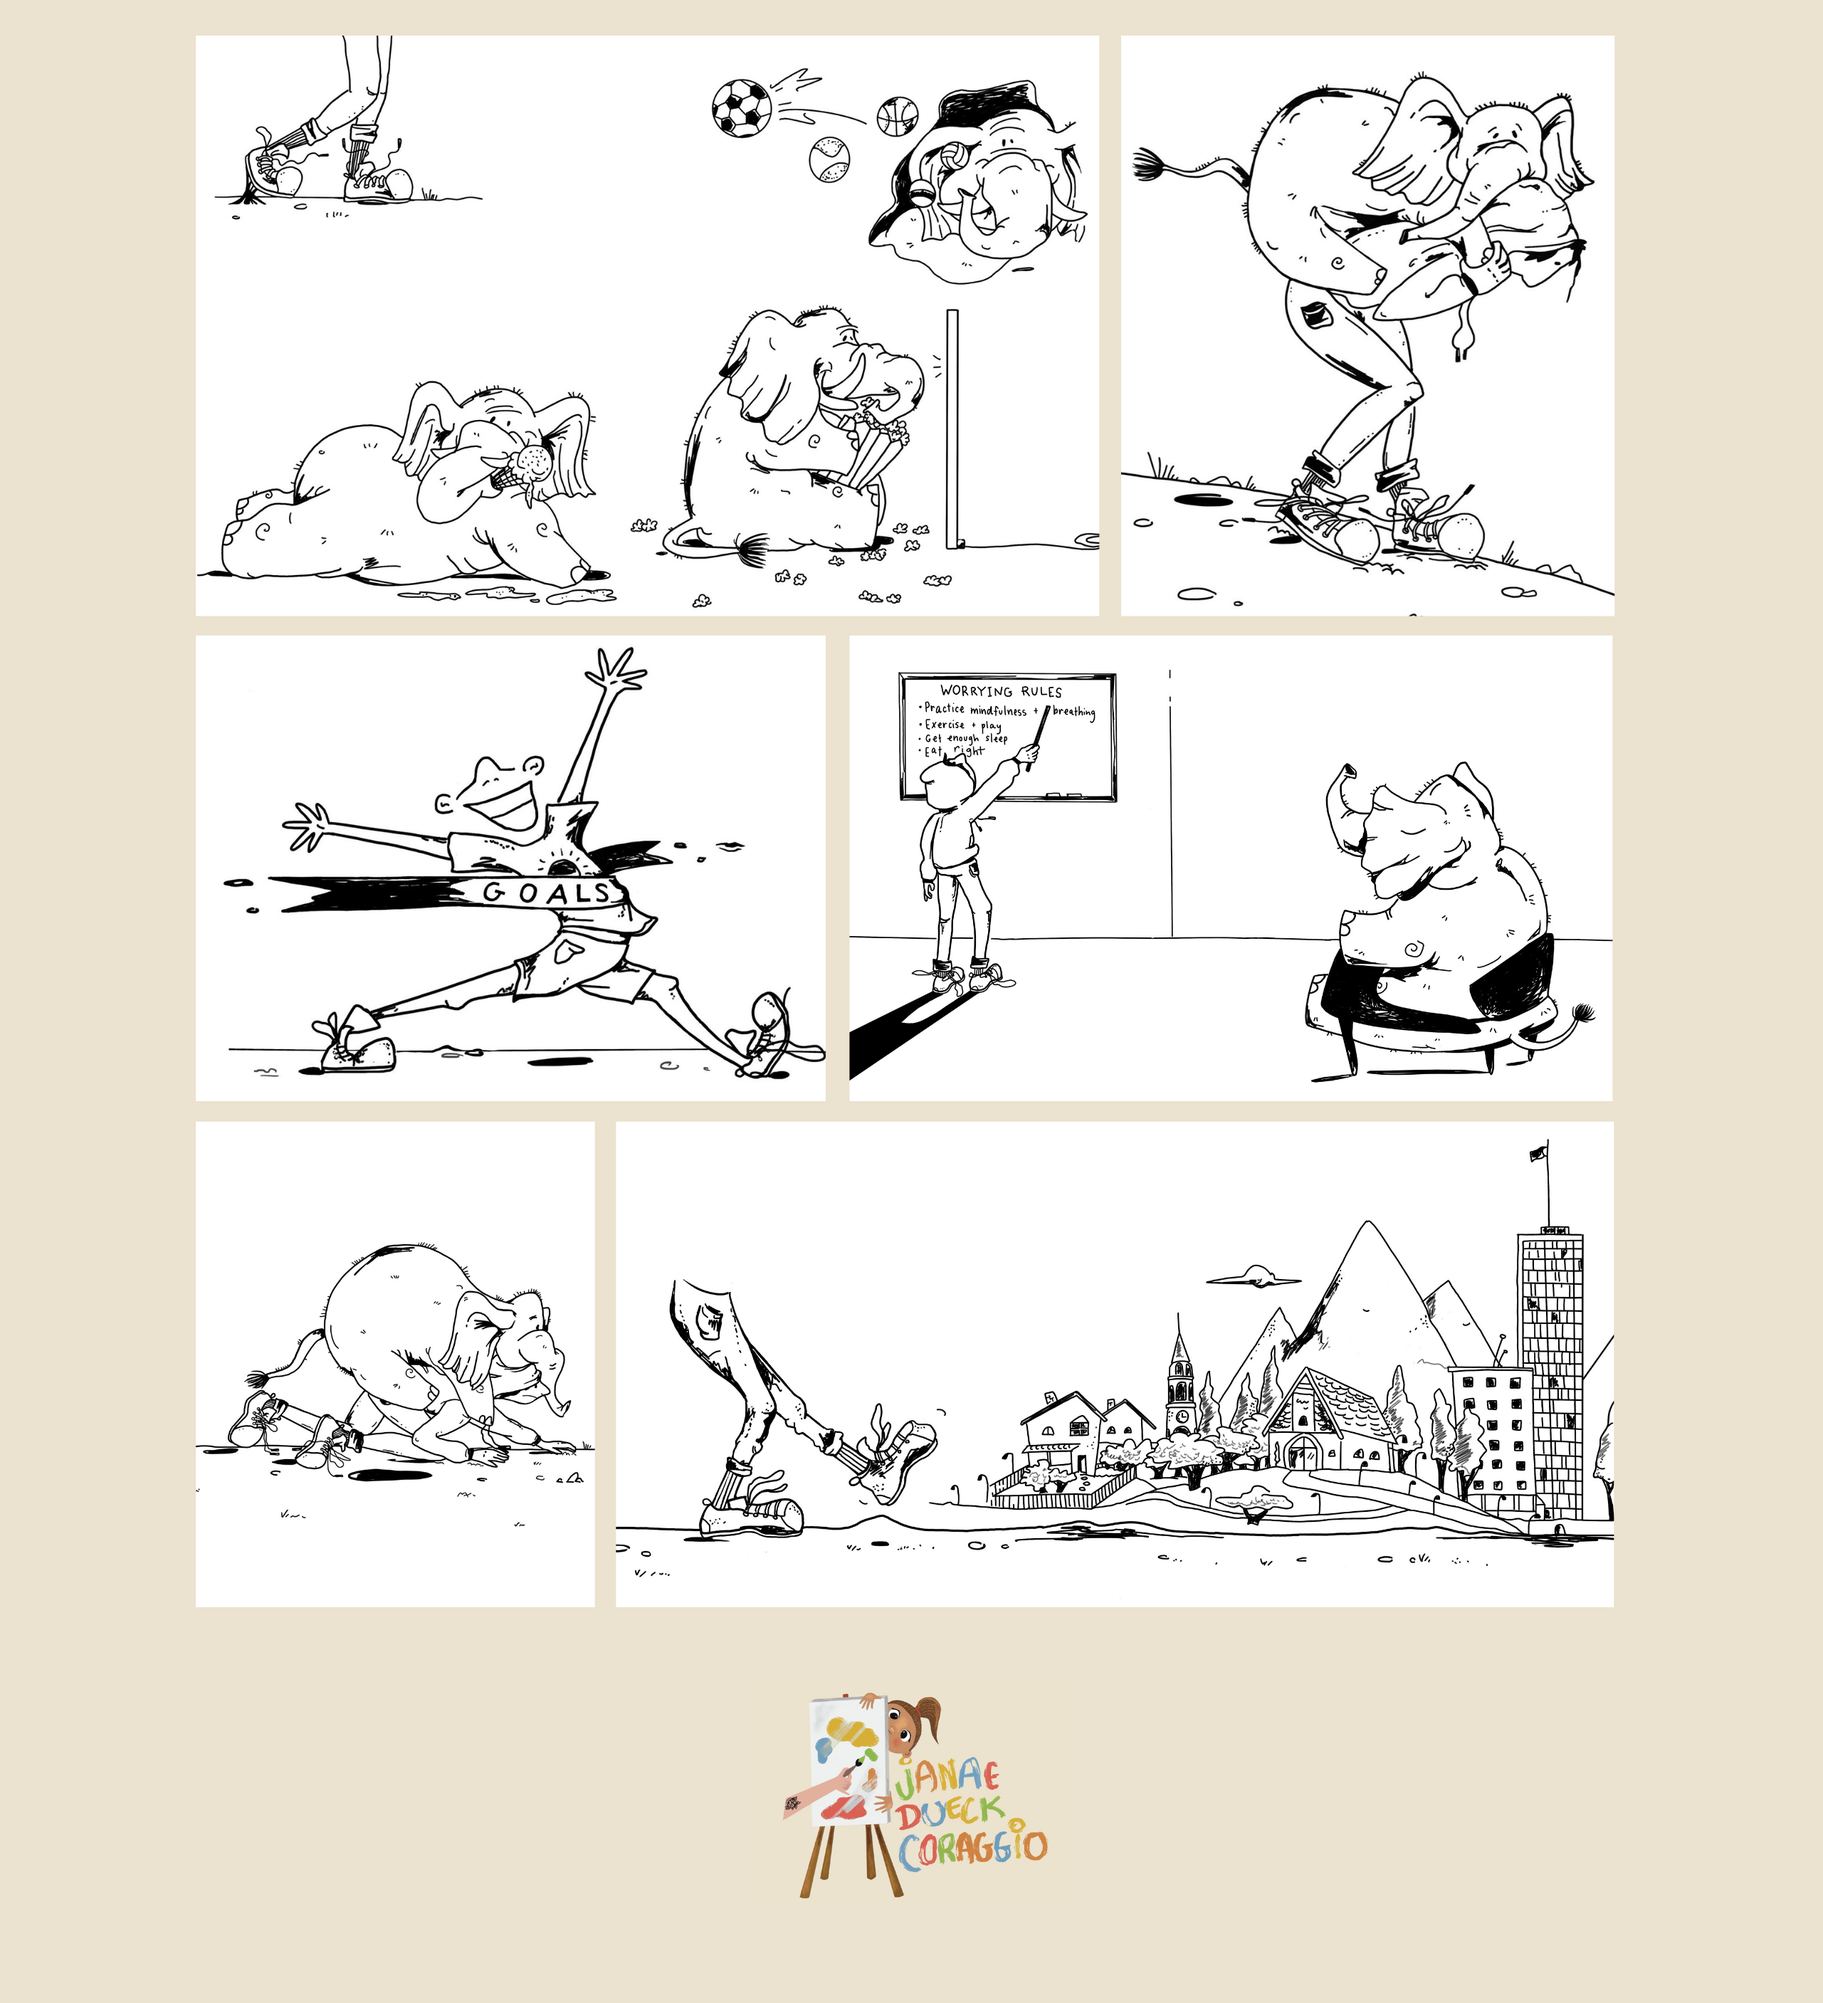
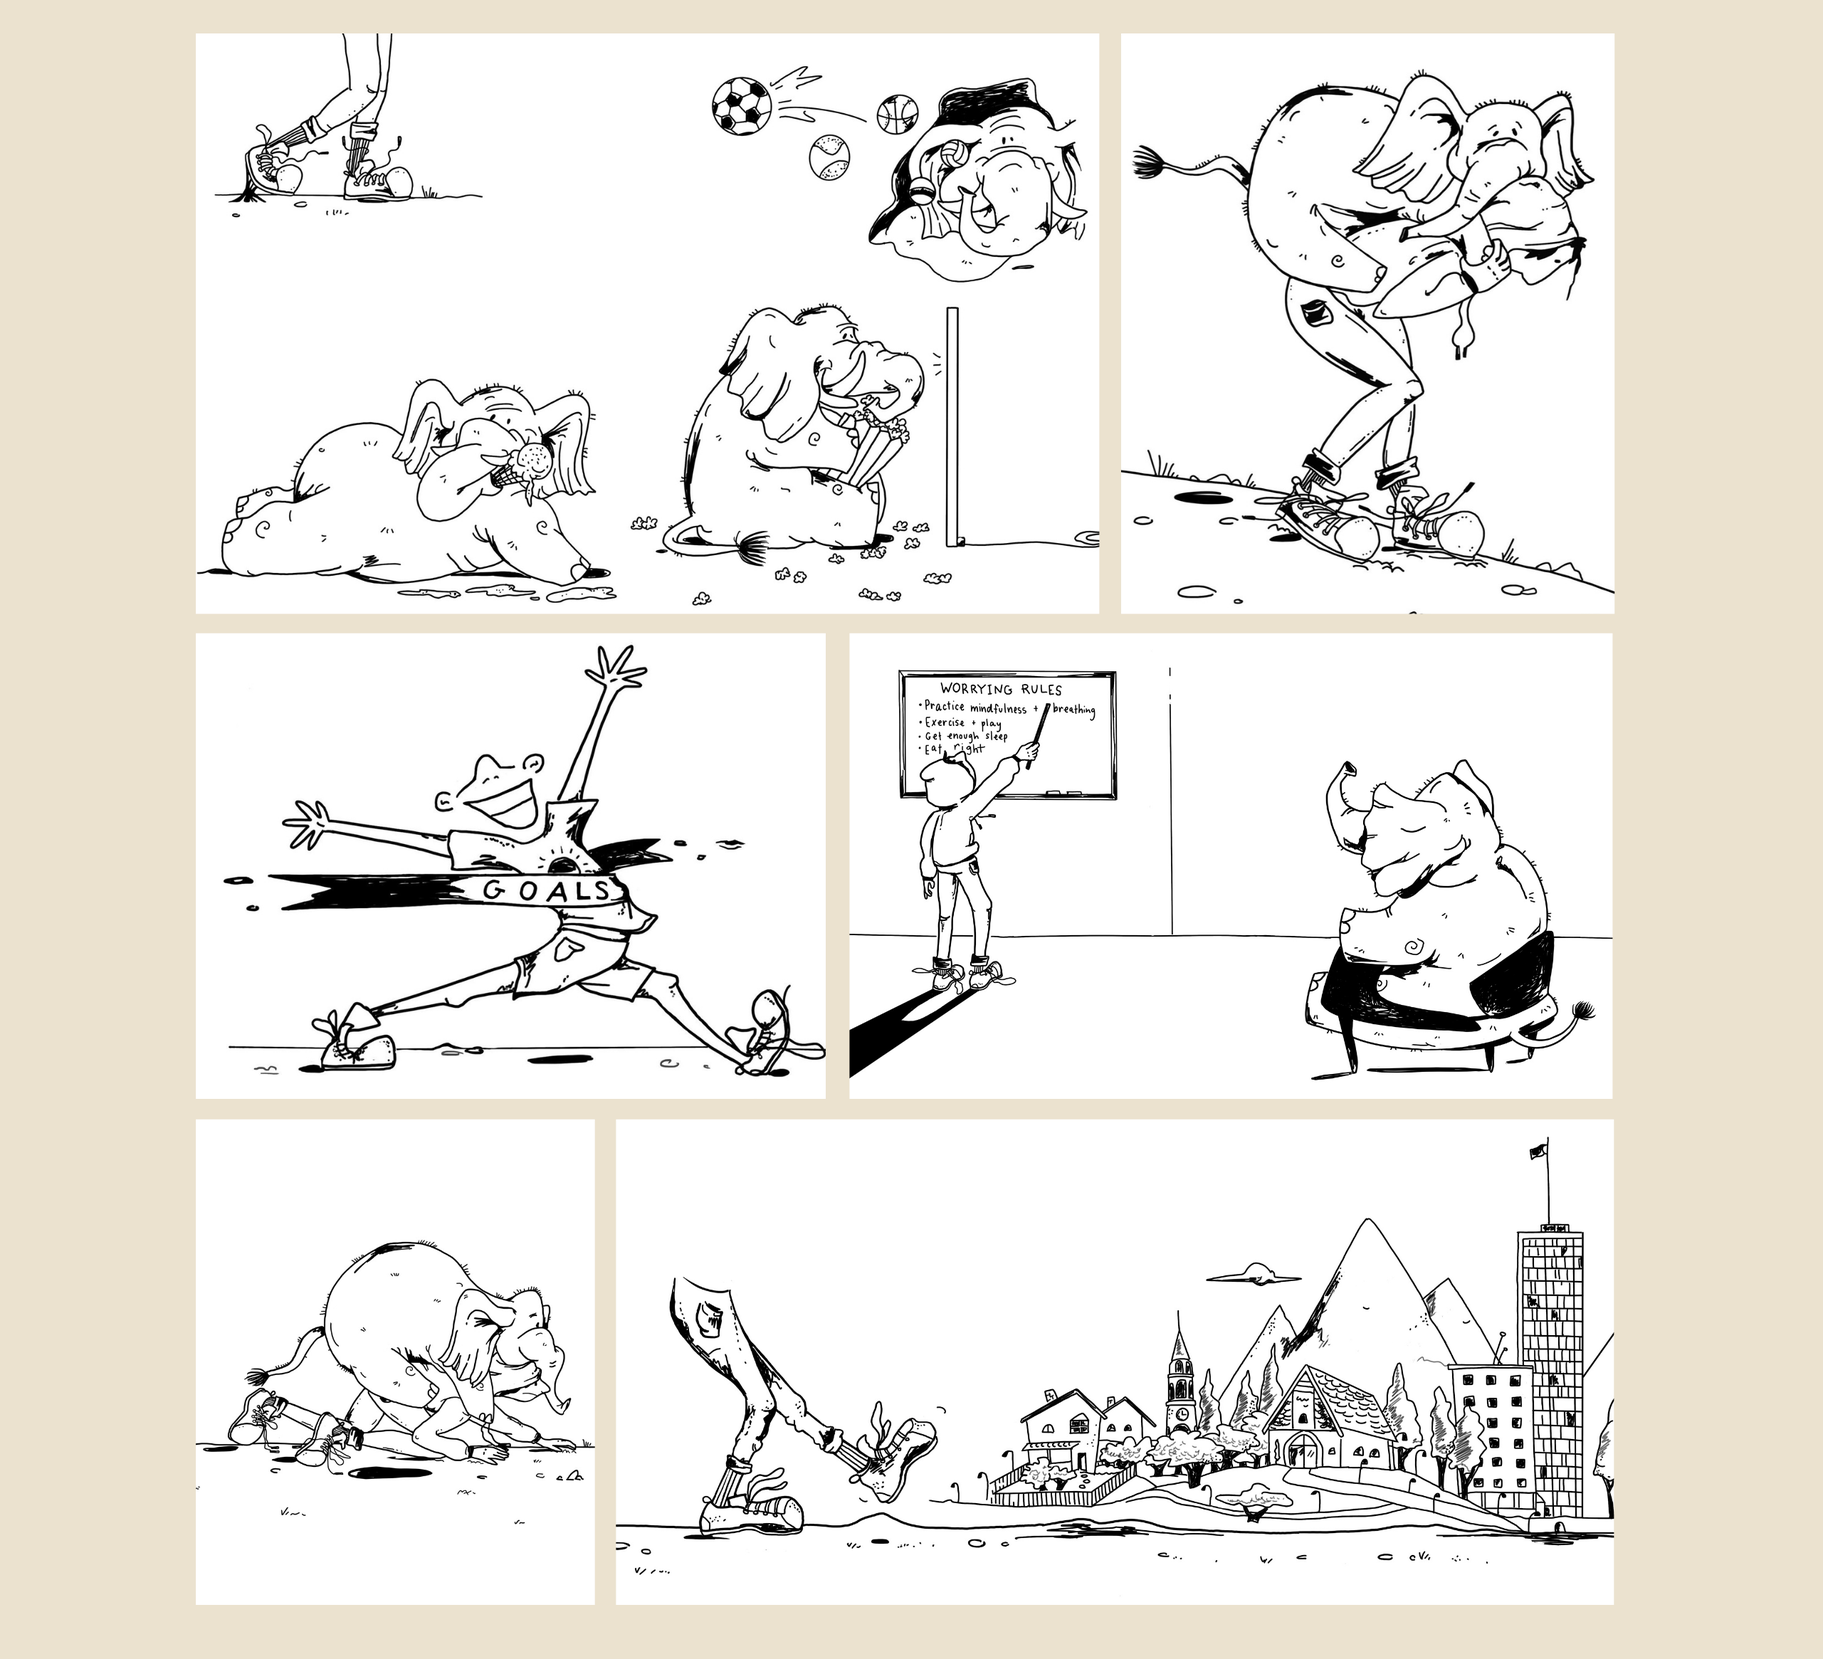
many asks

Changed region(s): [[0.0937, 0.0309, 0.9059, 0.9884], [0.125, 0.0, 0.2499, 0.1236]]

diff --git a/_posts/2025-02-03-after-the-fall.md b/_posts/2025-02-03-after-the-fall.md
@@ -1,0 +1,31 @@
+---
+layout: post
+title: "After the Fall"
+date: 2025-02-03 10:00:00
+description: 'A perfect read for leading an art discussion on fears, confidence, and bravery'
+tags:
+  - books
+thumbnail: /assets/img/afterthefall.jpg
+featured: false
+---
+
+### Book
+
+The book featured in my art groups with seniors this week was “After the Fall: How Humpty Dumpty Got Back Up Again” by Dan Santat. It is a perfect read for leading an art discussion on fears, confidence, and bravery. 
+
+### Response Art
+
+The art process includes drawing or coloring in a brick wall that represents a fear or a personal problem while thinking about the walls’ height in relation to your experience of the problem. For my older adults, I found preprinted coloring pages of brick walls and cutting a 8.5x 11 standard size paper in half as the most-less intimidating approach. Then, I folded the paper into a paper plane to represent our ability to reach past fears or problems. If you want, add personal self-affirmations onto the paper plane. 
+
+### Therapeutic Benefits
+
+The artwork evokes conversation around perseverance through trials, resulting in a collective understanding of human struggle and resiliency. The overall process promotes a sense of agency, building self-esteem, problem solving, and positive thinking.
+
+### Materials
+
+Coloring paper, coloring pencils/pens, pencil and eraser
+
+<div style="text-align: center;">
+  <img src="/assets/img/afterthefallbody1.jpg" alt="MLK Day" style="max-width: 100%; height: auto;">
+  <img src="/assets/img/afterthefallbody2.jpg" alt="MLK Day" style="max-width: 100%; height: auto;">
+</div>

diff --git a/_reviews/evierm-coloring-gods-love-2022.md b/_reviews/evierm-coloring-gods-love-2022.md
@@ -1,0 +1,13 @@
+---
+layout: none
+reviewer_name: evierm
+rating: 5
+review_title: Best coloring devotional I have seen for kids to participate with the family
+book_title: Coloring God's Love for Me
+date: 2022-06-15
+verified_purchase: true
+helpful_count: 0
+---
+
+What a GREAT IDEA. 100 devotionals geared for kids. A picture right next to the reading that really ties in to the story of the devotional. Literally as you read the page based on a verse in the Bible, the coloring illustrates the reading. God lights my path... you color stars, moon etc. It's a genius way to intertwine the senses so your child will remember the verse with coloring the description using listening, visual and tactile senses. I hope Janae Dueck comes out with more resources.
+

diff --git a/_reviews/k-happy-field-2020.md b/_reviews/k-happy-field-2020.md
@@ -1,0 +1,13 @@
+---
+layout: none
+reviewer_name: K
+rating: 5
+review_title: Powerful life lesson told in a sweet story for kids ❤
+book_title: The Happy Field
+date: 2020-05-02
+verified_purchase: false
+helpful_count: 0
+---
+
+We got this as a gift. What a sweet book!!! My 2 and 3 yr old daycare kiddos are typically squirmy during story time, but they sat still and listened intently to the story. The pictures were captivating as well. It is such a great story teaching young kids that things in life might be hard and hurt at times, but those hard times can produce the most beautiful things in life if we let them. What a great book!!!
+

diff --git a/_reviews/amazon-customer-coloring-gods-love-2022.md b/_reviews/amazon-customer-coloring-gods-love-2022.md
@@ -1,0 +1,13 @@
+---
+layout: none
+reviewer_name: Amazon Customer
+rating: 5
+review_title: A great coloring devotion for young and old
+book_title: Coloring God's Love for Me
+date: 2022-08-23
+verified_purchase: true
+helpful_count: 0
+---
+
+I work at a church in children's ministry and purchased a copy for each child as a end of year gift. All the kids (kinder to 6th grade) all loved it! I can't think of a more meaningful gift than this. I also got a copy for myself and I am loving it too. This book is not just for kids. It is also great for tweens, teens, and adults.
+

diff --git a/_reviews/earl-happy-field-2020.md b/_reviews/earl-happy-field-2020.md
@@ -1,0 +1,16 @@
+---
+layout: none
+reviewer_name: Earl
+rating: 5
+review_title: Wonderful Encouraging book for all ages.
+book_title: The Happy Field
+date: 2020-05-07
+verified_purchase: true
+helpful_count: 0
+---
+
+As a first grade teacher, I especially love this book because it is character building, encouraging children to face fears, grow through pain, realize their worth, gain strength and be happy. The Happy Field is perfect to give as a gift, have in your library, and read to your students. I highly recommend this book!
+
+Sincerely,
+Mrs. P.
+

diff --git a/_pages/workshops.md b/_pages/workshops.md
@@ -7,15 +7,13 @@ nav_order: 3
 horizontal: false
 ---
 
-<div style="text-align:center;">
+<div style="display:flex; align-items:center; gap:1rem; margin:1rem 0;">
   <img src="/assets/img/book_to_brush.jpg"
        alt="Book to Brush logo"
-       width="300"
-       height="300"
-       style="margin:1rem;">
+       width="100"
+       height="100">
+  <h3 style="margin:0;">Book to Brush: Storybook-Inspired Artmaking with Janae</h3>
 </div>
-
-### Book to Brush: Storybook-Inspired Artmaking with Janae
 
 #### What's the psychology behind it?
 

diff --git a/_reviews/jena-massey-coloring-gods-love-2022.md b/_reviews/jena-massey-coloring-gods-love-2022.md
@@ -1,0 +1,13 @@
+---
+layout: none
+reviewer_name: jena massey
+rating: 5
+review_title: I love this!
+book_title: Coloring God's Love for Me
+date: 2022-07-01
+verified_purchase: false
+helpful_count: 0
+---
+
+This is a wonderful coloring book for children and adults as well! The devotional pages are a perfect touch for this book. I enjoyed reading the devotions and I definitely recommend this to all of the children in your life. Also it is an amazing way to unwind from a stressful day for adults too!
+

diff --git a/_reviews/gramma-to-seven-happy-field-2016.md b/_reviews/gramma-to-seven-happy-field-2016.md
@@ -1,0 +1,13 @@
+---
+layout: none
+reviewer_name: Gramma to seven
+rating: 5
+review_title: Review from a senior; citizen, that is.
+book_title: The Happy Field
+date: 2016-01-21
+verified_purchase: true
+helpful_count: 0
+---
+
+Janae outdid herself here and put out a very encouraging message for all. I shed a few tears at the end as I realized it applied to me too as well as our tree! A lovely picture book for kids and a wonderful allegory for teens and adults. Keep on writing Janae!
+

diff --git a/_reviews/vicky-lopez-happy-field-2020.md b/_reviews/vicky-lopez-happy-field-2020.md
@@ -1,0 +1,13 @@
+---
+layout: none
+reviewer_name: Vicky Lopez
+rating: 5
+review_title: Simple but profound!
+book_title: The Happy Field
+date: 2020-04-30
+verified_purchase: true
+helpful_count: 0
+---
+
+Such a sweet book! While the pictures and storyline are simple enough for young children to enjoy, the concepts are for all ages. A happy field is devastated to be "broken" and plowed, but it yields greater beauty and purpose. Thank you, Bethany and Janae!!
+

diff --git a/_reviews/buyer-at-1-happy-field-2016.md b/_reviews/buyer-at-1-happy-field-2016.md
@@ -1,0 +1,13 @@
+---
+layout: none
+reviewer_name: Buyer@1
+rating: 5
+review_title: and it serves as a great reminder that change builds character and can be a ...
+book_title: The Happy Field
+date: 2016-01-19
+verified_purchase: true
+helpful_count: 0
+---
+
+This book lifted my spirits when I was down, and it serves as a great reminder that change builds character and can be a wonderful part of life. Can't wait to read future books by this author!
+

diff --git a/_reviews/amazon-customer-falling-leaves-2016.md b/_reviews/amazon-customer-falling-leaves-2016.md
@@ -1,0 +1,13 @@
+---
+layout: none
+reviewer_name: Amazon Customer
+rating: 5
+review_title: To My Fallings Leaves
+book_title: To My Fallings Leaves
+date: 2016-01-02
+verified_purchase: true
+helpful_count: 0
+---
+
+Ordered this book to read to my nephews & I loved it!!! Adorable children's book & even a good little read for adults!
+

diff --git a/_reviews/aiya-coloring-gods-love-2024.md b/_reviews/aiya-coloring-gods-love-2024.md
@@ -1,0 +1,13 @@
+---
+layout: none
+reviewer_name: Aiya
+rating: 5
+review_title: My daughter loves this
+book_title: Coloring God's Love for Me
+date: 2024-02-04
+verified_purchase: true
+helpful_count: 0
+---
+
+my daughter has really been interested Om God. She loves this coloring book.
+
